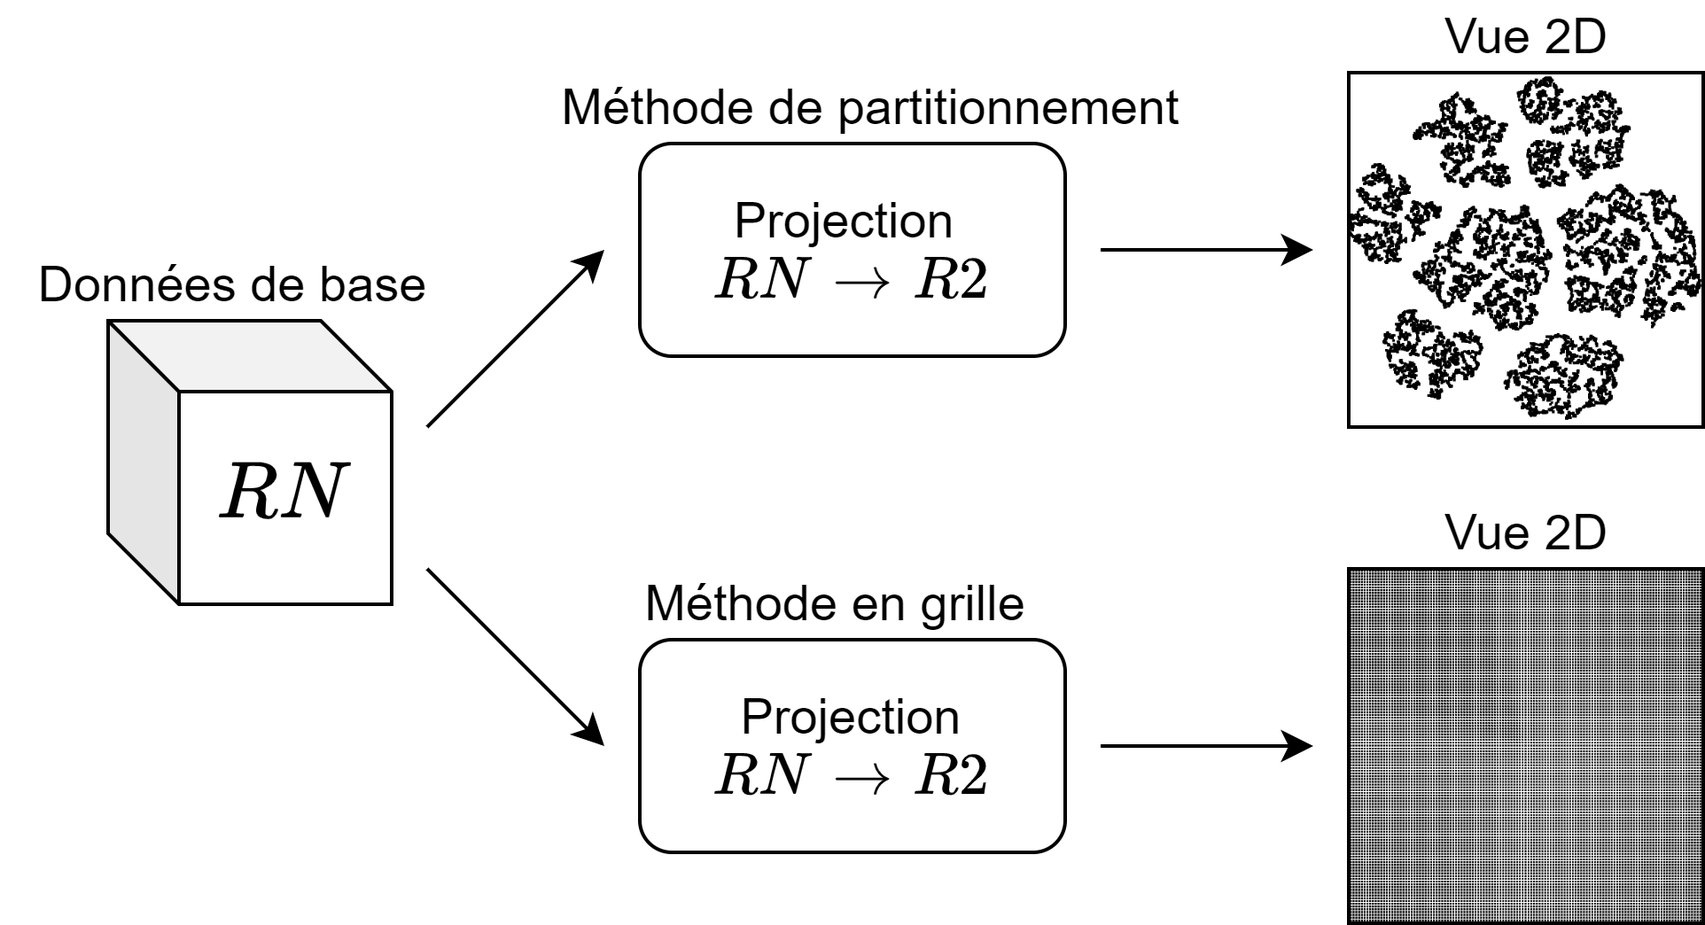
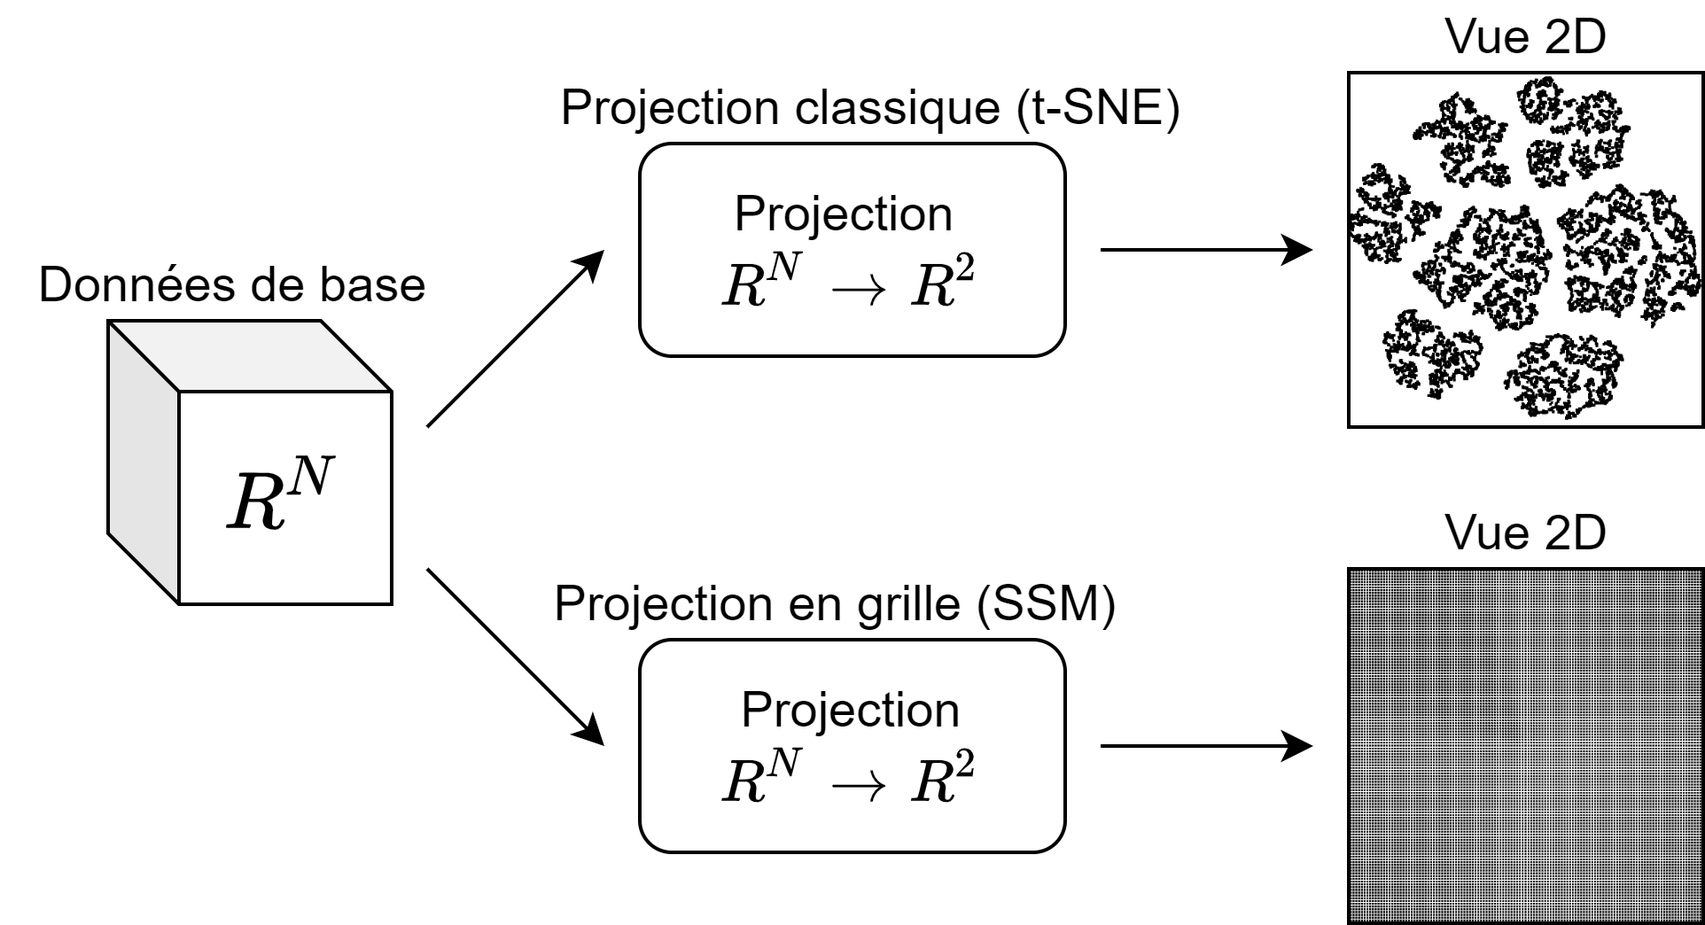
update

diff --git a/src/components/IntroComponent.tsx b/src/components/IntroComponent.tsx
@@ -5,6 +5,9 @@ import { TrainingComponent } from "./TrainingComponent";
 import { Button, Col, Container, Nav, Row, Stack } from "react-bootstrap"
 import Image from 'react-bootstrap/Image'
 import 'bootstrap/dist/css/bootstrap.min.css';
+import 'katex/dist/katex.min.css';
+import TeX from '@matejmazur/react-katex';
+
 
 interface IProps {
     master: EvalControllerComponent;
@@ -57,13 +60,30 @@ export class IntroComponent extends React.Component<IProps, IState> {
     render(): React.ReactNode {
         let training = false;
         let trainingPhase = "";
+        let prevLabel = "Précédent";
+        switch(this.state.page) {
+            case 10:
+                prevLabel = "Recommencer entraînement T1";
+                break;
+            case 12:
+                prevLabel = "Recommencer entraînement T2";
+                break;
+            case 14:
+                prevLabel = "Recommencer entraînement T3";
+                break;
+            case 16:
+                prevLabel = "Recommencer entraînement T4";
+                break;
+        }
         let title = <Row className="justify-content-center"><Col className="col-auto">Introduction ({this.state.page +1 }/16)</Col></Row>
         let nav = <Row>
             <Col className="col-auto me-auto">
-                <Button variant="outline-primary" onClick={() => this.prevPage(this)}>Précédent</Button>
+                <Button variant={this.state.page > 0 ? "primary" : "primary disabled"} onClick={() => this.prevPage(this)}>
+                    {prevLabel}
+                </Button>
             </Col>
             <Col className="col-auto">
-                <Button variant="outline-primary" className="ms-auto" onClick={() => this.nextPage(this)}>Suivant</Button>
+                <Button variant="primary" className="ms-auto" onClick={() => this.nextPage(this)}>Suivant</Button>
             </Col>
         </Row>
         let text = <div></div>
@@ -74,13 +94,13 @@ export class IntroComponent extends React.Component<IProps, IState> {
                 text =
                     <div>
                     <div>
-                        Cette évaluation porte sur la représentation de données en hautes dimensions RN sur un écran.
+                        Cette évaluation porte sur la représentation de données en hautes dimensions <TeX >R^N</TeX> sur un écran.
                         Plus précisément, nous évaluons l’efficacité de deux représentations pour des tâches communément effectuées lors de la visualisation de telles données.
-                        Nous visualiserons plusieurs jeux de données pendant cette évaluation, et une étiquette est attribuée à chaque élément du jeu de données, qui sert à identifier le groupe de données auquel il appartient.
+                        Nous visualiserons plusieurs jeux de données pendant cette évaluation, et une étiquette est attribuée à chaque élément le groupe de données auquel il appartient.
                     </div>
                     <div>
-                        Les deux méthodes de projections évaluées sont (1) une méthode de clustering sur un espace 2D continu qu'on appelera "méthode par partitionnement" (en haut sur le diagramme) et une méthode qui projette sur une grille 2D compacte qu’on appellera "méthode par grille" (en bas sur le diagramme).
-                        Les deux projections font en sorte de représenter le jeu de données de façon à ce que les éléments qui sont proches dans RN le soient aussi sur la vue 2D.
+                        Les deux méthodes de projections évaluées sont (1) une méthode de projection non-linéaire sur un espace <TeX>R^2</TeX> continu qu'on appelera "projection classique" (en haut sur le diagramme) et une méthode qui projette sur une grille compacte qu’on appellera "projection compacte" (en bas sur le diagramme).
+                        Les deux projections font en sorte de représenter le jeu de données de façon à ce que les éléments qui sont proches dans <TeX>R^N</TeX> le soient aussi sur la vue 2D.
                     </div>
                     <Row className="justify-content-center">
                         <Image className="col-8" fluid src="intro/pipeline-proj.png" />
@@ -92,7 +112,7 @@ export class IntroComponent extends React.Component<IProps, IState> {
                 text = <div>
                     <div>
                         Dans ces deux méthodes, chaque carré représente un élément du jeu de données projeté.
-                        En plus des deux méthodes de projections, nous proposons aussi deux formes de colorisation de ces carrés.
+                        En plus des deux méthodes de projections, nous proposons aussi deux colorations de ces carrés.
                     </div>
                     <div>
                         La première concerne les étiquettes : chaque étiquette dans le jeu de données se voit attribuée une couleur distincte des autres. 
@@ -108,33 +128,75 @@ export class IntroComponent extends React.Component<IProps, IState> {
                 training = false;
                 text = <div>
                     <div>
-                        La seconde concerne le positionnement dans RN des éléments : dans les deux projections, le voisinage de chaque élément est inspecté.
-                        Le calcul du voisinage est différent en fonction de la projection étudiée:
-                    </div>
-                    <ul>
-                        <li>Dans la projection par partitionnement, le voisinage d'un élément correspond aux points les plus proches dans 6 directions autour de celui-ci (s'ils existent).</li>
-                        <li>Dans la projection par grille, le voisinage d'un élément correspond aux éléments dans les 8 cellules adjacentes autour de lui (s'ils existent).</li>
-                    </ul>
-                    <div>
-                    Après avoir déterminé le voisinage d’un élément, on calcule la moyenne des distances dans RN de l’élément avec chacun de ceux de son voisinage, et une couleur est attribuée au carré pour représenter cette distance moyenne.
-                    L’échelle de couleurs n’est pas forcément linéaire, mais de manière générale, les distances faibles dans RN sont représentées par la couleur jaune/vert et les distances élevées sont représentées par la couleur vert foncé/bleu foncé.
-                    Pour chaque projection utilisant cette méthode de coloration, l’échelle des couleurs sera donnée en légende.
+                        La seconde concerne la proximité des éléments dans <TeX>R^N</TeX>. Elle a pour objectif de donner des indications sur la topologie des éléments dans <TeX>R^N</TeX> en se basant sur le voisinage des éléments dans <TeX>R^2</TeX>.
                     </div>
                     <Row className="justify-content-center">
                         <Image fluid className="col-8" src="intro/pipeline-dist.png" />
                     </Row>
+                    <div>
+                        Cette coloration se calcule en deux étapes. La première consiste à récupérer les voisins de chaque éléments à partie de la projection <TeX>R^2</TeX>.
+                        Le voisinage d'un élément <TeX>e</TeX> correspond aux plus proches éléments dans chaque secteur angulaire autour de <TeX>e</TeX>.
+                        Ici, nous considérons 8 secteurs angulaires pour calculer le voisinage.
+                    </div>
+                    <Row className="justify-content-center">
+                        <Image fluid className="col-5" src="intro/knn.png" />
+                    </Row>
+                    
                 </div>
                 break;
-
             case 3:
+                text = <div>
+                    <div>
+                    Après avoir déterminé le voisinage <TeX>V(e)</TeX> d’un élément <TeX>e</TeX>, on calcule la moyenne des distances <TeX>{'\\overline{d}=\\frac{\\sum_{k \\in V(e)}|e-k|}{8}'}</TeX> entre <TeX>e</TeX> et ses voisins <TeX>k \in V(e)</TeX>. Une couleur est attribuée au carré pour représenter cette valeur.
+                    L’échelle de couleurs n’est pas linéaire, mais de manière générale, les distances courtes dans <TeX>R^N</TeX> sont représentées par la couleur jaune/verte et les distances longues sont représentées par la couleur verte foncée/bleue foncée.
+                    Pour chaque projection utilisant cette méthode de coloration, l’échelle des couleurs sera donnée en légende.
+                </div>
+                <div>
+                    Cette coloration permet entre autres de comparer la proximité de deux éléments, et donc de représenter une partie de la topologie des données de <TeX>R^N</TeX> sur une projection <TeX>R^2</TeX>. Par exemple, dans ce cas de figure :
+                </div>
+                <Row className="justify-content-center">
+                <Image fluid className="col-8" src="intro/dist-usage-tsne.png" />
+                </Row>
+                <div>Nous cherchons à déterminer le groupe le plus proche de <TeX>B</TeX>. On compare alors la couleur des éléments de <TeX>B</TeX> qui forment la frontière avec <TeX>A</TeX> et <TeX>C</TeX> pour connaître la distance qui les sépare. Les éléments représentant la distance <TeX>{'d_{AB}'}</TeX> sont de couleur bleue foncée et ceux qui représentent la distance <TeX>{'d_{BC}'}</TeX> sont de couleur verte. On peut donc en conclure que dans <TeX>R^N</TeX>, le groupe <TeX>B</TeX> est plus proche du groupe <TeX>C</TeX> que du groupe <TeX>A</TeX>.</div>
+                </div>
+                break;
+            case 4:
+                text= <div>
+                    <div>
+                        Autre exemple d'utilisation mais en utilisant cette fois-ci la vue par grille, on cherche une nouvelle fois à trouver quel groupe est plus proche de <TeX>B</TeX>. On compare les couleurs des frontières avec <TeX>A</TeX> et <TeX>C</TeX> pour trouver celle qui indique une distance courte avec <TeX>B</TeX>. Les éléments de la distance <TeX>{'d_{AB}'}</TeX> sont de couleur bleue foncée et ceux qui représentent la distance <TeX>{'d_{BC}'}</TeX> sont de couleur verte. On peut donc en conclure que dans <TeX>R^N</TeX>, le groupe <TeX>B</TeX> est plus proche du groupe <TeX>C</TeX> que du groupe <TeX>A</TeX>.
+                    </div>
+                    <Row className="justify-content-center">
+                <Image fluid className="col-8" src="intro/dist-usage-ssm.png" />
+                </Row>
+                </div>
+                break;
+            case 5:
                 training = false;
                 text = <div>
                     <div>
-                        Les données projetées dans cette évaluation ont des structures différentes, composées de plusieurs groupes partageant une étiquette commune.
-                        Ces groupes peuvent plus ou moins se superposer entre eux, varier en densité, en taille et en cohérence.
-                        Certains éléments ayant une étiquette A peuvent être positionnés dans un groupe d'étiquette B, on appellera ces éléments des <b>intrus</b>.
-                        Dans l'exemple ci-dessous, de tels éléments sont encadrés en rose.
-                    </div>
+                        Dans cette évaluation, nous générons des jeux de données dans <TeX>R^N</TeX> qui suivent des topologies et caractéristiques particulières.
+                        Nous générons en l'occurence 4 types de structures topologique:
+                        <ul>
+                            <li>La première, nommée "partagée", est formée de groupes plus ou moins séparés les uns des autres.</li>
+                            <li>La seconde, nommée "bulle", est formée d'un groupe qui est complètement intégré dans un autre, sans superposition à l'intérieur.</li>
+                            <li>La troisième, nommée "mélange", est formée d'un groupe qui se superpose partiellement avec un autre.</li>
+                            <li>La quatrième, nommée "proche", est formée d'au moins deux groupes significativement proches l'un de l'autre par rapport aux </li>autres.
+                        </ul>
+                        En plus de ces topologies, nous pouvons faire varier le nombre de groupes, leurs densités, distances par rapport aux autres groupes, etc...
+                        Le diagramme ci-dessous donne un exemple de telles données générées en <TeX>R^2</TeX>. </div>
+                        <Row className="justify-content-center">
+                            <Image fluid className="col-8" src="intro/struct-overview.png" />
+                    </Row>
+
+                        <div> Les données générées pour l'évaluation sont dans des espaces à plus de deux dimensions.
+                        Dans cette évaluation, nous cherchons à retrouver ces caractéristiques et topologies en employant les méthodes de projections et de coloration présentées précédemment.</div>
+                        </div>
+                break;
+            case 6:
+                text=<div>
+                    Enfin, une dernière caractéristique que l'on peut manipuler concerne les étiquettes des éléments. Certains éléments ayant une étiquette A peuvent être positionnés dans un groupe d'étiquette B, on appellera ces éléments des <b>intrus</b>.
+                    Dans l'exemple ci-dessous, de tels éléments sont encadrés en rose.
+                        
                     <Row className="justify-content-center">
                         <Col className="col-6 justify-content-center">
                             <Image fluid src="intro/tsneGT-out.png" />
@@ -144,16 +206,16 @@ export class IntroComponent extends React.Component<IProps, IState> {
                         </Col>
                     </Row>
                 </div>
-                break;
+            break;
 
-            case 4:
+            case 7:
                 training = false;
                 text = <div>
                     <div>
                         Cette évaluation comporte 4 tâches différentes :<br/>
                         T1 : Trouver l'étiquette de groupe la plus représentée<br/>
-                        T2 : Trouver quel groupe est plus proche d’un autre dans RN<br/>
-                        T3 : Trouver la topologie des données dans RN<br/>
+                        T2 : Trouver quel groupe est plus proche d’un autre dans <TeX>R^N</TeX><br/>
+                        T3 : Trouver la topologie des données dans <TeX>R^N</TeX><br/>
                         T4 : Compter le nombre d'intrus dans un groupe donné<br/><br/>
                     </div>
                     <div>
@@ -164,31 +226,31 @@ export class IntroComponent extends React.Component<IProps, IState> {
                     </div>
                 </div>
                 break;
-            case 5:
+            case 8:
                 training = false;
                 text = <div>
 
                 <b>T1 : Trouver l'étiquette la plus représentée</b><br/><br/>
 
-                Pour cette tâche, il y aura entre 3 et 6 groupes différents à chaque question.
+                Pour cette tâche, il y aura des données composées avec entre 3 et 6 groupes différents pour chaque question.
                 Seule la coloration par étiquette sera utilisée.
-                Il faut choisir la couleur de l'étiquette qui semble être la plus représentée (plus nombreuse) à l’écran.
+                La tâche consiste à choisir la couleur de l'étiquette qui semble être la plus représentée (plus nombreuse) à l’écran.
                 </div>
                 break;
-            case 6:
+            case 9:
                 training = true;
                 trainingPhase = "t1"
                 break;
-            case 7:
+            case 10:
                 training = false;
                 text = <div>
-                <b>T2 : Trouver quel groupe est plus proche d’un autre dans RN</b><br/><br/>
+                <b>T2 : Trouver quel groupe est plus proche d’un autre dans <TeX>R^N</TeX></b><br/><br/>
 
                 Pour cette tâche, nous considérerons qu’il y a soit 5, soit 7 groupes à chaque question.
                 Des questions n'auront que la coloration par étiquette, d'autres proposeront les deux colorations à l’écran.<br/>
                 Nous désignerons un groupe par sa couleur, et nous demanderons de désigner un autre groupe par sa couleur qui semble être le plus proche de celui demandé. <br/>
-                Lorsque seule la coloration par étiquette est proposée, il faut trouver des indices montrant que les groupes sont proches dans RN.
-                Dans le cas de la vue par partitionnement, des éléments peuvent légèrement être rapprochés d'un autre groupe pour indiquer leur proximité dans RN.
+                Lorsque seule la coloration par étiquette est proposée, il faut trouver des indices montrant que les groupes sont proches dans <TeX>R^N</TeX>.
+                Dans le cas de la vue par partitionnement, des éléments peuvent légèrement être rapprochés d'un autre groupe pour indiquer leur proximité dans <TeX>R^N</TeX>.
                 Dans le cas de la vue par grille, les éléments sont triés par proximité. La forme des frontières peut donner un indice sur la proximité d'un groupe: les frontières plus verticales indiquent une plus grande distance entre les deux groupes.
                 <Row className="justify-content-center">
                         <Col className="col-4 justify-content-center"><Image fluid src="intro/t3-prox.png" /></Col>
@@ -198,33 +260,33 @@ export class IntroComponent extends React.Component<IProps, IState> {
                 Pour les deux méthodes, il faudra donc sélectionner le groupe ayant une frontière la plus claire/jaune de celle du groupe demandé. <br/>
                 </div>
                 break;
-            case 8:
+            case 11:
                 training = true;
                 trainingPhase = "t2"
                 break;
-            case 9:
+            case 12:
                 training = false;
                 text = <div>
-            <b>T3 : Trouver la topologie des données dans RN</b><br/><br/>
+            <b>T3 : Trouver la topologie des données dans <TeX>R^N</TeX></b><br/><br/>
 
             Pour cette tâche, nous considèrerons qu’il y a soit 5, soit 7 groupes à chaque question.
             Des questions n'auront que la coloration par étiquette, d'autres proposeront les deux colorations à l’écran.<br/>
             Chaque jeu de données projeté aura une topologie aillant une et une seule caractéristique parmi celle qui sont présentées ci-dessous.
-            L’objectif de la question est d’indiquer quelle est la caractéristique du jeu de données dans RN.
+            L’objectif de la question est d’indiquer quelle est la caractéristique du jeu de données dans <TeX>R^N</TeX>.
             Chaque caractéristique, et donc réponse, sera représentée par un diagramme.
             Leur signification peut être rappelée en passant le curseur de la souris sans cliquer par-dessus le diagramme.
             Les caractéristiques possibles sont :<br/>
-            1.Tous les groupes sont bien écartés les uns des autres dans RN. <img className="answer-image" src="ans/struct1.png" /><br/>
-            2.Il y a au moins un groupe positionné à l’intérieur d’un autre sans se mélanger/se superposer dans RN (une sorte de "bulle").<img className="answer-image" src="ans/struct2.png" /><br/>
-            3.Il y a au moins deux groupes qui se mélangent/se superposent dans RN.<img className="answer-image" src="ans/struct3.png" /><br/>
-            4.Il y a au moins deux groupes sont plus proches entre eux dans RN par rapport aux autres.<img className="answer-image" src="ans/struct4.png" /><br/>
+            1.Tous les groupes sont bien écartés les uns des autres dans <TeX>R^N</TeX>. <img className="answer-image" src="ans/struct1.png" /><br/>
+            2.Il y a au moins un groupe positionné à l’intérieur d’un autre sans se mélanger/se superposer dans <TeX>R^N</TeX> (une sorte de "bulle").<img className="answer-image" src="ans/struct2.png" /><br/>
+            3.Il y a au moins deux groupes qui se mélangent/se superposent dans <TeX>R^N</TeX>.<img className="answer-image" src="ans/struct3.png" /><br/>
+            4.Il y a au moins deux groupes sont plus proches entre eux dans <TeX>R^N</TeX> par rapport aux autres.<img className="answer-image" src="ans/struct4.png" /><br/>
             </div>
             break;
-            case 10:
+            case 13:
                 training = true;
                 trainingPhase = "t3"
                 break;
-            case 11:
+            case 14:
                 training = false;
                 text = <div>
                     <b>T4 : Trouver le nombre d'intrus dans les données</b><br/><br/>
@@ -235,17 +297,17 @@ export class IntroComponent extends React.Component<IProps, IState> {
                     En cas d’erreur, cliquer sur ANNULER efface la réponse en cours.
                 </div>
                 break;
-            case 12:
+            case 15:
                 training = true;
                 trainingPhase = "t4"
                 break;
-            case 13:
+            case 16:
                 training = false;
                 text = <div>
                     Les explications sont maintenant terminées, vous pouvez cliquer sur Commencer pour commencer l'évaluation. 
                 </div>
                 break;
-            case 14:
+            case 17:
                 this.props.master.endIntro(this.props.master);
                 return null;
                 break;

diff --git a/src/components/QuestionComponent.tsx b/src/components/QuestionComponent.tsx
@@ -95,9 +95,12 @@ export class QuestionComponent extends React.Component<IProps, IState> {
         }
         for (let ii = 0; ii < i; ++ii) {
             let className = this.state.answerIndex == ii ? "success" : "outline-secondary";
-            let a = <Col className="justify-content-center d-grid"><Button variant={className} key={"a" + colorArray[ii]} onClick={() => f(this, ii)}>
-                <Image fluid src={"ans/" + colorArray[ii] + ".jpg"} title={colorArray[ii]} className="answer-color"/>
-                </Button></Col>
+            let a = 
+                // <Col className="justify-content-center d-grid">
+                <Button variant={className} key={"a" + colorArray[ii]} onClick={() => f(this, ii)}>
+                    <Image fluid src={"ans/" + colorArray[ii] + ".jpg"} title={colorArray[ii]} className="answer-color"/>
+                </Button>
+            {/* </Col> */}
             result.push(a);
         }
         return result;
@@ -161,8 +164,8 @@ export class QuestionComponent extends React.Component<IProps, IState> {
             <Row className="justify-content-center">{this.props.question.question}</Row>
             {this.hasLegend ? <Row className="justify-content-center"><Col xs={3}><Image fluid src="./intro/legend.png" className="legend"/></Col></Row> : ""}
             {this.props.question.type == QuestionType.Count ? <Row className="justify-content-center">{this.state.answerText}</Row>:""}
-            <Row className="justify-content-center">{answers}</Row>
-            {answers2.length > 0 ? <Row className="justify-content-center">{answers2}</Row> : ""}
+            <div className="d-flex justify-content-center">{answers}</div>
+            {answers2.length > 0 ? <div className="d-flex justify-content-center">{answers2}</div> : ""}
         </Container>
         return result;
     }
